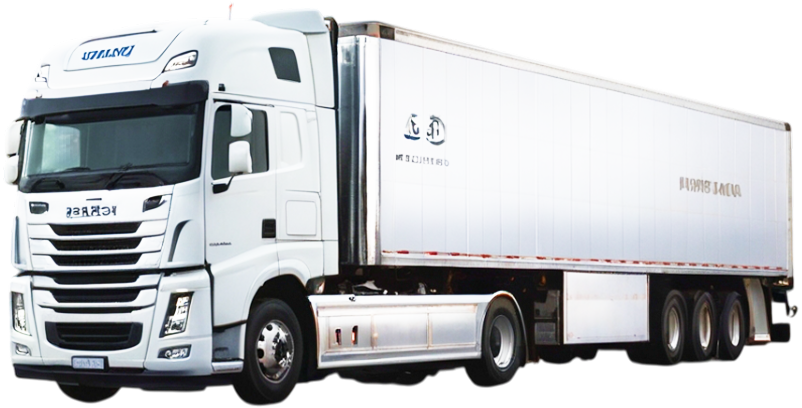
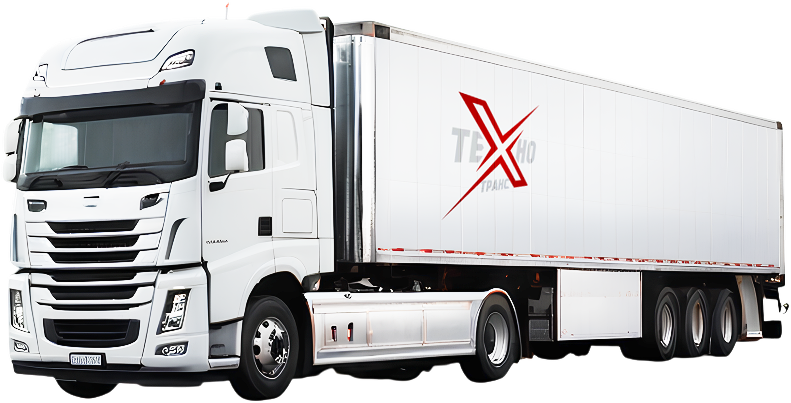
Update images on the main page slider

diff --git a/static/css/style.css b/static/css/style.css
@@ -2861,12 +2861,12 @@ footer .container {
     max-width: 780px !important;
     width: 100%;
 }
-.mainImage3 {
-    transform: translateX(-60px);
+.mainImage4 {
+    transform: translateX(-70px);
 }
 .mainImage5 {
     max-width: 740px !important;
-    transform: translateX(-36px) translateY(-20px);
+    transform: translateX(36px) translateY(-20px);
 }
 .mainImage6 {
     max-width: 780px !important;
@@ -3324,13 +3324,13 @@ footer .container {
         transform: scale(0.9) translateX(90px);
     }
     .mainImage3 {
-        transform: scale(0.8) translateX(0px);
+        transform: scale(0.8) translateX(70px);
     }
     .mainImage4 {
-        transform: scale(0.8) translateX(80px);
+        transform: scale(0.8) translateX(20px);
     }
     .mainImage5 {
-        transform: scale(0.8) translateX(50px);
+        transform: scale(0.8) translateX(80px);
     }
     .mainImage6 {
         transform: scale(0.85) translateX(80px);
@@ -3408,13 +3408,13 @@ footer .container {
         transform: scale(0.8) translateX(90px);
     }
     .mainImage3 {
-        transform: scale(0.7) translateX(20px);
-    }
-    .mainImage4 {
         transform: scale(0.7) translateX(90px);
     }
+    .mainImage4 {
+        transform: scale(0.7) translateX(40px);
+    }
     .mainImage5 {
-        transform: scale(0.7) translateX(50px);
+        transform: scale(0.7) translateX(60px);
     }
     .mainImage6 {
         transform: scale(0.8) translateX(80px);
@@ -3480,6 +3480,15 @@ footer .container {
         max-width: 80vw !important;
         transform: scale(1) translateX(-50%);
         left: 50%;
+    }
+    .mainImage2 {
+        top: 680px;
+    }
+    .mainImage3 {
+        top: 680px
+    }
+    .mainImage6 {
+        top: 660px;
     }
     
 
@@ -3687,8 +3696,17 @@ footer .container {
         height: 40px;
     }
     .main-image {
-        top: 448px;
+        top: 460px;
         max-height: 270px;
+    }
+    .mainImage2 {
+        top: 470px;
+    }
+    .mainImage4 {
+        top: 415px;
+    }
+    .mainImage5 {
+        top: 420px
     }
 
     .main__heading {
@@ -4439,7 +4457,28 @@ footer .container {
         gap: 6px;
     }
     .main-image {
+        top: 530px;
+    }
+    .mainImage1 {
         top: 500px;
+    }
+    .mainImage2 {
+        top: 520px
+    }
+    .mainImage3 {
+
+    }
+    .mainImage4 {
+        top: 500px;
+    }
+    .mainImage5 {
+        top: 500px;
+    }
+    .mainImage6 {
+        
+    }
+    .mainImage7 {
+        
     }
 }
 @media (max-width: 385px) {
@@ -4447,11 +4486,30 @@ footer .container {
         gap: 8px;
     }
     .main-image {
-        top: 508px;
+        top: 555px;
         max-height: 270px;
     }
+    .mainImage1 {
+        top: 540px;
+        /* transform: scale(0.8) translateX(-50%); */
+    }
+    .mainImage2 {
+
+    }
+    .mainImage3 {
+
+    }
+    .mainImage4 {
+        top: 530px;
+    }
     .mainImage5 {
-        max-width: 70vw;
+        /* top: 480px; */
+    }
+    .mainImage6 {
+        
+    }
+    .mainImage7 {
+        
     }
 }
 @media (max-width: 370px) {
@@ -4484,7 +4542,25 @@ footer .container {
 }
 @media (max-width: 348px) {
     .main-image {
-        top: 530px
+        top: 600px
+    }
+    .mainImage1 {
+    }
+    .mainImage2 {
+
+    }
+    .mainImage3 {
+
+    }
+    .mainImage4 {
+    }
+    .mainImage5 {
+    }
+    .mainImage6 {
+        
+    }
+    .mainImage7 {
+        
     }
 }
 @media (max-width: 348px) {
@@ -4523,6 +4599,24 @@ footer .container {
         width: 36px;
     }
     .main-image {
-        top: 580px;
+        top: 600px;
+    }
+    .mainImage1 {
+    }
+    .mainImage2 {
+        top: 622px
+    }
+    .mainImage3 {
+        top: 622px
+    }
+    .mainImage4 {
+    }
+    .mainImage5 {
+    }
+    .mainImage6 {
+        
+    }
+    .mainImage7 {
+        
     }
 }
